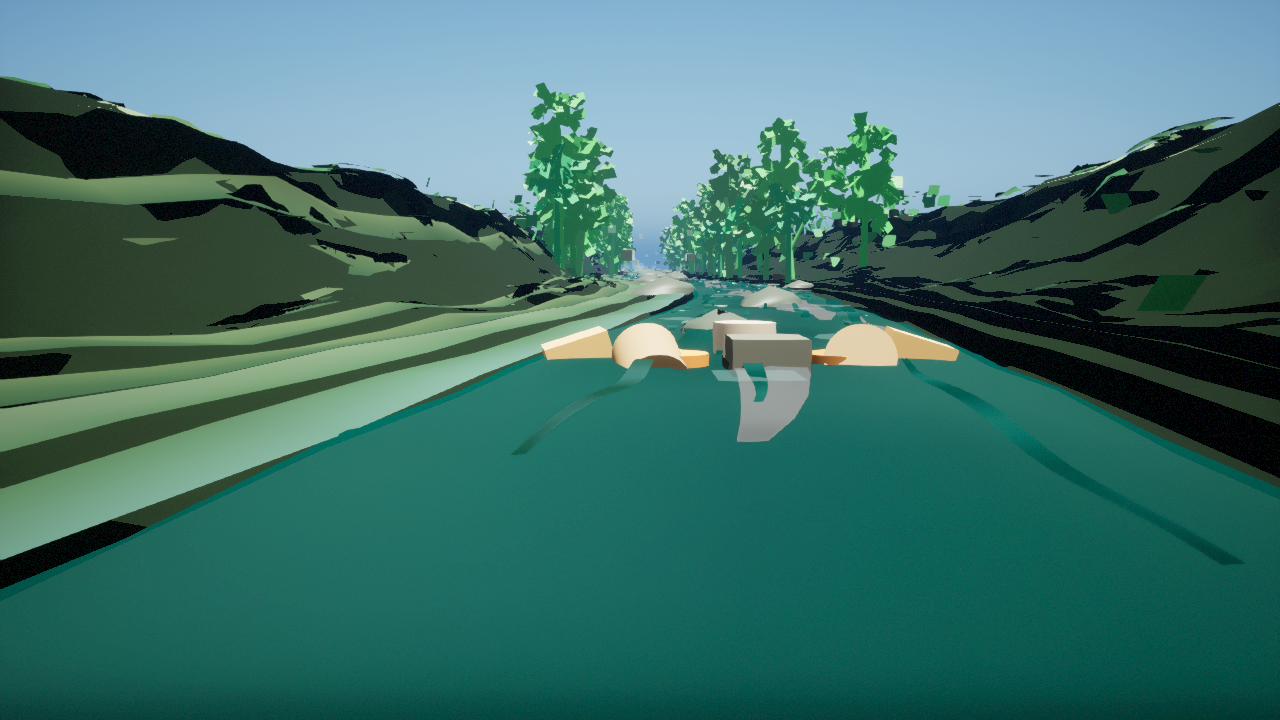
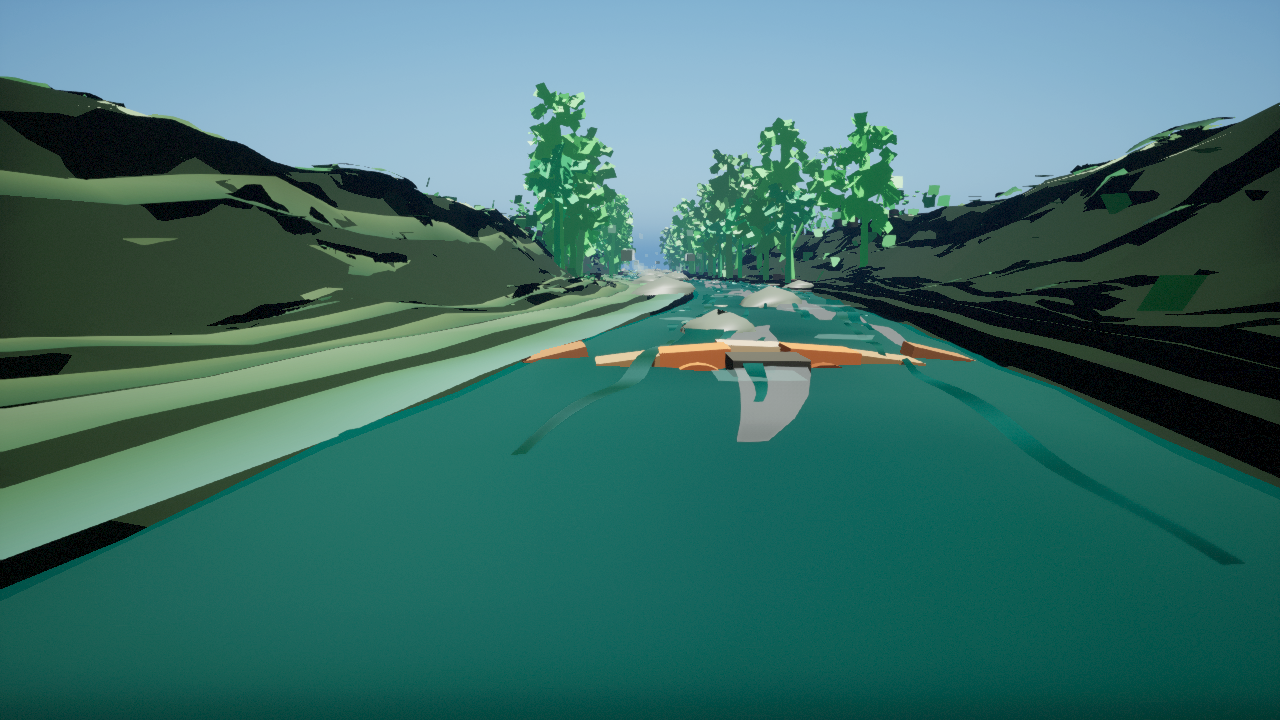
Refine raft foreground preview

Changed region(s): [[0.4062, 0.4278, 0.75, 0.5194]]

diff --git a/unreal/Plugins/RaftSim/Source/RaftSimEditor/Private/RaftSimEditorModule.cpp b/unreal/Plugins/RaftSim/Source/RaftSimEditor/Private/RaftSimEditorModule.cpp
@@ -288,7 +288,7 @@ TArray<FRaftSimEnvironmentPreviewSpec> GetEnvironmentPreviewSpecs()
     SouthFork.ElevationSample =
         TEXT("physics/data/real_world/south_fork_american_chili_bar/terrain/production_import_pilot/3dep_tiles");
     SouthFork.SourceDrapeDescription =
-        TEXT("stitched South Fork production-import pilot source drape generated from four official USDA/APFO NAIP 2048px tiles, plus stitched USGS 3DEP pilot DEM relief and a review-gated 2017px heightfield candidate sampled into bank and valley preview geometry; pilot source water/vegetation masks are sampled into terrain color, source-aware bank breakup patches, first-party terrain material layer facets, first-party Landscape/Nanite material scaffold microfacets/strata/slope occlusion, source-aware boulder wetness/abrasion/moss facets, biome-specific deadfall/log/grass/root ecology props, first-party biome foliage silhouette cards, dense layered riparian canopy/understory proxy clusters, first-party instanced procedural foliage-equivalent canopy/trunk/understory scaffold, lit water variation, flow-band depth texture ribbons, flow-aware surface chop/turbidity patches, first-party water shader depth/reflection/refraction scaffold, deterministic wet-rock, talus, foliage, understory, mask-aware ground-cover cards, guide-seat raft/oar foreground proxies, and river-specific atmospheric backdrop cards; all pilot derivatives remain review-gated until metadata review, mosaic/clip, hydrologic conditioning, channel burning, masks, and guide/geospatial approval pass; rocks, foliage, water, foam, raft, and lighting still include first-party procedural proxy layers");
+        TEXT("stitched South Fork production-import pilot source drape generated from four official USDA/APFO NAIP 2048px tiles, plus stitched USGS 3DEP pilot DEM relief and a review-gated 2017px heightfield candidate sampled into bank and valley preview geometry; pilot source water/vegetation masks are sampled into terrain color, source-aware bank breakup patches, first-party terrain material layer facets, first-party Landscape/Nanite material scaffold microfacets/strata/slope occlusion, source-aware boulder wetness/abrasion/moss facets, biome-specific deadfall/log/grass/root ecology props, first-party biome foliage silhouette cards, dense layered riparian canopy/understory proxy clusters, first-party instanced procedural foliage-equivalent canopy/trunk/understory scaffold, lit water variation, flow-band depth texture ribbons, flow-aware surface chop/turbidity patches, first-party water shader depth/reflection/refraction scaffold, deterministic wet-rock, talus, foliage, understory, mask-aware ground-cover cards, refined guide-seat raft/oar foreground proxies, and river-specific atmospheric backdrop cards; all pilot derivatives remain review-gated until metadata review, mosaic/clip, hydrologic conditioning, channel burning, masks, and guide/geospatial approval pass; rocks, foliage, water, foam, raft, and lighting still include first-party procedural proxy layers");
     SouthFork.FlowBandId = TEXT("median_runnable");
     SouthFork.FlowBandDisplayName = TEXT("Median Runnable / Summer Commercial");
     SouthFork.FlowBandSource = TEXT("physics/data/real_world/south_fork_american_chili_bar/flow_presets.json");
@@ -328,7 +328,7 @@ TArray<FRaftSimEnvironmentPreviewSpec> GetEnvironmentPreviewSpecs()
     Colorado.ElevationSample =
         TEXT("physics/data/real_world/colorado_river_grand_canyon_rowing/terrain/production_import_pilot/3dep_tiles");
     Colorado.SourceDrapeDescription =
-        TEXT("stitched Colorado/Lees Ferry production-import pilot source drape generated from four official USDA/APFO NAIP 2048px tiles, plus stitched USGS 3DEP pilot DEM relief and a review-gated 2017px heightfield candidate sampled into canyon bank preview geometry; pilot source water/vegetation masks are sampled into terrain color, source-aware bank breakup patches, first-party terrain material layer facets, first-party Landscape/Nanite material scaffold microfacets/strata/slope occlusion, source-aware boulder wetness/abrasion/sediment facets, biome-specific sparse deadfall/grass/root ecology props, first-party sparse desert scrub silhouettes, sparse desert riparian thicket proxy clusters, first-party instanced procedural desert-thicket/trunk scaffold, lit water variation, flow-band depth texture ribbons, flow-aware surface chop/turbidity patches, first-party water shader depth/reflection/refraction scaffold, deterministic wet-rock, talus, sparse scrub, boulder placement, mask-aware canyon ground-cover cards, guide-seat raft/oar foreground proxies, and river-specific atmospheric backdrop cards; all pilot derivatives remain review-gated until metadata review, mosaic/clip, river-mile stationing, hydrologic conditioning, release-aware masks, and guide/oarsman approval pass; rocks, foliage, water, foam, raft, and lighting still include first-party procedural proxy layers");
+        TEXT("stitched Colorado/Lees Ferry production-import pilot source drape generated from four official USDA/APFO NAIP 2048px tiles, plus stitched USGS 3DEP pilot DEM relief and a review-gated 2017px heightfield candidate sampled into canyon bank preview geometry; pilot source water/vegetation masks are sampled into terrain color, source-aware bank breakup patches, first-party terrain material layer facets, first-party Landscape/Nanite material scaffold microfacets/strata/slope occlusion, source-aware boulder wetness/abrasion/sediment facets, biome-specific sparse deadfall/grass/root ecology props, first-party sparse desert scrub silhouettes, sparse desert riparian thicket proxy clusters, first-party instanced procedural desert-thicket/trunk scaffold, lit water variation, flow-band depth texture ribbons, flow-aware surface chop/turbidity patches, first-party water shader depth/reflection/refraction scaffold, deterministic wet-rock, talus, sparse scrub, boulder placement, mask-aware canyon ground-cover cards, refined guide-seat raft/oar foreground proxies, and river-specific atmospheric backdrop cards; all pilot derivatives remain review-gated until metadata review, mosaic/clip, river-mile stationing, hydrologic conditioning, release-aware masks, and guide/oarsman approval pass; rocks, foliage, water, foam, raft, and lighting still include first-party procedural proxy layers");
     Colorado.FlowBandId = TEXT("moderate_release_planning");
     Colorado.FlowBandDisplayName = TEXT("Moderate Release Planning");
     Colorado.FlowBandSource = TEXT("physics/data/real_world/colorado_river_grand_canyon_rowing/flow_presets.json");
@@ -374,7 +374,7 @@ TArray<FRaftSimEnvironmentPreviewSpec> GetEnvironmentPreviewSpecs()
     Pacuare.ElevationSample =
         TEXT("physics/data/real_world/pacuare_river_costa_rica/terrain/copernicus_dem_glo30_N09_W084.tif; physics/data/real_world/pacuare_river_costa_rica/terrain/copernicus_dem_glo30_N10_W084.tif");
     Pacuare.SourceDrapeDescription =
-        TEXT("review-gated Pacuare production-import derivative placeholders generated from the selected NASA GIBS MODIS/Terra true-color seed and Copernicus DEM GLO-30 relief, normalized into a 4096px source drape, 2048px DEM relief, 2017px heightfield candidate, and 2048px water/vegetation masks; these remain coarse/cloudy proxy inputs until higher-resolution cloud-screened imagery, local hydrology/hydrography, protected-area review, and guide/outfitter validation are attached; first-party procedural rainforest leaf-litter, wet-rock, talus, mist, source-aware bank breakup patches, first-party terrain material layer facets, first-party Landscape/Nanite material scaffold microfacets/strata/slope occlusion, source-aware boulder wetness/abrasion/moss facets, biome-specific deadfall/log/grass/root ecology props, rainforest canopy/vine silhouette cards, dense layered rainforest canopy/understory proxy clusters, first-party instanced procedural rainforest canopy/trunk/understory scaffold, waterfall curtain/plunge-mist proxy layers, lit water variation, flow-band depth texture ribbons, flow-aware surface chop/turbidity patches, first-party water shader depth/reflection/refraction scaffold, dense mask-aware ground-cover/canopy cards, guide-seat raft/oar foreground proxies, and humid atmospheric backdrop cards remain rights-safe proxy dressing; rocks, foliage, water, foam, raft, and lighting still include first-party procedural proxy layers");
+        TEXT("review-gated Pacuare production-import derivative placeholders generated from the selected NASA GIBS MODIS/Terra true-color seed and Copernicus DEM GLO-30 relief, normalized into a 4096px source drape, 2048px DEM relief, 2017px heightfield candidate, and 2048px water/vegetation masks; these remain coarse/cloudy proxy inputs until higher-resolution cloud-screened imagery, local hydrology/hydrography, protected-area review, and guide/outfitter validation are attached; first-party procedural rainforest leaf-litter, wet-rock, talus, mist, source-aware bank breakup patches, first-party terrain material layer facets, first-party Landscape/Nanite material scaffold microfacets/strata/slope occlusion, source-aware boulder wetness/abrasion/moss facets, biome-specific deadfall/log/grass/root ecology props, rainforest canopy/vine silhouette cards, dense layered rainforest canopy/understory proxy clusters, first-party instanced procedural rainforest canopy/trunk/understory scaffold, waterfall curtain/plunge-mist proxy layers, lit water variation, flow-band depth texture ribbons, flow-aware surface chop/turbidity patches, first-party water shader depth/reflection/refraction scaffold, dense mask-aware ground-cover/canopy cards, refined guide-seat raft/oar foreground proxies, and humid atmospheric backdrop cards remain rights-safe proxy dressing; rocks, foliage, water, foam, raft, and lighting still include first-party procedural proxy layers");
     Pacuare.FlowBandId = TEXT("rainfed_runnable_planning");
     Pacuare.FlowBandDisplayName = TEXT("Rain-Fed Runnable Planning");
     Pacuare.FlowBandSource = TEXT("physics/data/real_world/pacuare_river_costa_rica/flow_presets.json");
@@ -4306,77 +4306,90 @@ void AddPreviewRaftForeground(UWorld* World, const FRaftSimEnvironmentPreviewSpe
 
     const float BaseX = -4100.0f;
     const float CenterY = GetPreviewRiverCenterY(Spec, BaseX);
-    const float Z = -10.0f;
-    const FLinearColor TubeColor = FMath::Lerp(Spec.RaftColor, FLinearColor(0.95f, 0.60f, 0.18f), 0.24f);
-    const FLinearColor TubeShadowColor = ScalePreviewColor(TubeColor, 0.62f);
+    const float Z = -18.0f;
+    const FLinearColor TubeColor = FMath::Lerp(ScalePreviewColor(Spec.RaftColor, 0.42f), FLinearColor(0.34f, 0.095f, 0.035f), 0.60f);
+    const FLinearColor TubeShadowColor = ScalePreviewColor(TubeColor, 0.44f);
+    const FLinearColor TubeHighlightColor = FMath::Lerp(TubeColor, FLinearColor(0.70f, 0.25f, 0.09f), 0.14f);
     const FLinearColor FrameColor = Spec.bDesertCanyon ? FLinearColor(0.12f, 0.095f, 0.065f) : FLinearColor(0.065f, 0.075f, 0.058f);
-    const FLinearColor OarShaftColor = Spec.bDesertCanyon ? FLinearColor(0.44f, 0.31f, 0.16f) : FLinearColor(0.50f, 0.33f, 0.17f);
-    const FLinearColor OarBladeColor = Spec.bDesertCanyon ? FLinearColor(0.76f, 0.68f, 0.47f) : FLinearColor(0.86f, 0.52f, 0.22f);
-    const FLinearColor BowLineColor = FMath::Lerp(FLinearColor(0.78f, 0.72f, 0.58f), TubeColor, 0.18f);
+    const FLinearColor OarShaftColor = Spec.bDesertCanyon ? FLinearColor(0.24f, 0.15f, 0.075f) : FLinearColor(0.27f, 0.16f, 0.075f);
+    const FLinearColor OarBladeColor = Spec.bDesertCanyon ? FLinearColor(0.22f, 0.15f, 0.075f) : FLinearColor(0.24f, 0.10f, 0.045f);
+    const FLinearColor BowLineColor = FMath::Lerp(FLinearColor(0.40f, 0.34f, 0.22f), TubeColor, 0.25f);
 
     AddRaftProxyPart(
         CylinderMesh,
         FString::Printf(TEXT("RaftSim_ForegroundRaft_LeftTube_%s"), *Spec.RiverId),
-        FVector(BaseX + 40.0f, CenterY - 118.0f, Z),
-        FRotator(0.0f, 90.0f, 0.0f),
-        FVector(0.20f, 0.20f, 1.62f),
+        FVector(BaseX + 12.0f, CenterY - 88.0f, Z),
+        FRotator(90.0f, 0.0f, 0.0f),
+        FVector(0.145f, 0.145f, 1.20f),
         TubeColor);
     AddRaftProxyPart(
         CylinderMesh,
         FString::Printf(TEXT("RaftSim_ForegroundRaft_RightTube_%s"), *Spec.RiverId),
-        FVector(BaseX + 40.0f, CenterY + 118.0f, Z),
-        FRotator(0.0f, 90.0f, 0.0f),
-        FVector(0.20f, 0.20f, 1.62f),
+        FVector(BaseX + 12.0f, CenterY + 88.0f, Z),
+        FRotator(90.0f, 0.0f, 0.0f),
+        FVector(0.145f, 0.145f, 1.20f),
         TubeShadowColor);
     AddRaftProxyPart(
-        CylinderMesh,
+        CubeMesh,
         FString::Printf(TEXT("RaftSim_ForegroundRaft_Bow_%s"), *Spec.RiverId),
-        FVector(BaseX + 235.0f, CenterY, Z + 2.0f),
-        FRotator(90.0f, 0.0f, 0.0f),
-        FVector(0.18f, 0.18f, 1.38f),
+        FVector(BaseX + 165.0f, CenterY, Z - 1.0f),
+        FRotator(0.0f, 0.0f, 0.0f),
+        FVector(0.070f, 0.78f, 0.025f),
         TubeColor);
     AddRaftProxyPart(
         CubeMesh,
         FString::Printf(TEXT("RaftSim_ForegroundRaft_Floor_%s"), *Spec.RiverId),
-        FVector(BaseX - 18.0f, CenterY, -12.0f),
+        FVector(BaseX - 22.0f, CenterY, -118.0f),
         FRotator::ZeroRotator,
-        FVector(0.66f, 0.36f, 0.022f),
-        FrameColor);
+        FVector(0.055f, 0.030f, 0.003f),
+        ScalePreviewColor(FrameColor, 0.22f));
     AddRaftProxyPart(
         CubeMesh,
         FString::Printf(TEXT("RaftSim_ForegroundRaft_FrameBar_%s"), *Spec.RiverId),
-        FVector(BaseX - 62.0f, CenterY, 22.0f),
+        FVector(BaseX - 62.0f, CenterY, -4.0f),
         FRotator::ZeroRotator,
-        FVector(0.045f, 0.84f, 0.018f),
-        FLinearColor(0.18f, 0.18f, 0.15f));
+        FVector(0.026f, 0.44f, 0.010f),
+        FLinearColor(0.045f, 0.045f, 0.038f));
 
-    const float OarLengthScale = Spec.bDesertCanyon ? 2.05f : 1.78f;
-    const float OarBladeOffset = Spec.bDesertCanyon ? 300.0f : 260.0f;
+    for (int32 SeamIndex = 0; SeamIndex < 2; ++SeamIndex)
+    {
+        const float Side = (SeamIndex == 0) ? -1.0f : 1.0f;
+        AddRaftProxyPart(
+            CubeMesh,
+            FString::Printf(TEXT("RaftSim_ForegroundRaft_TubeSeam_%d_%s"), SeamIndex, *Spec.RiverId),
+            FVector(BaseX + 38.0f, CenterY + Side * 88.0f, Z + 16.0f),
+            FRotator(0.0f, 0.0f, Side * 4.0f),
+            FVector(0.36f, 0.010f, 0.006f),
+            TubeHighlightColor);
+    }
+
+    const float OarLengthScale = Spec.bDesertCanyon ? 0.76f : 0.64f;
+    const float OarBladeOffset = Spec.bDesertCanyon ? 330.0f : 295.0f;
     for (int32 OarIndex = 0; OarIndex < 2; ++OarIndex)
     {
         const float Side = (OarIndex == 0) ? -1.0f : 1.0f;
         AddRaftProxyPart(
-            CylinderMesh,
+            CubeMesh,
             FString::Printf(TEXT("RaftSim_ForegroundRaft_OarShaft_%d_%s"), OarIndex, *Spec.RiverId),
-            FVector(BaseX + 28.0f, CenterY + Side * 154.0f, 18.0f + 2.0f * static_cast<float>(OarIndex)),
-            FRotator(Side > 0.0f ? 2.5f : -2.5f, 94.0f + Side * 15.0f, Side * 68.0f),
-            FVector(0.023f, 0.023f, OarLengthScale),
+            FVector(BaseX + 38.0f, CenterY + Side * 178.0f, -14.0f + 1.0f * static_cast<float>(OarIndex)),
+            FRotator(0.0f, Side * 4.0f, Side > 0.0f ? 7.0f : -7.0f),
+            FVector(0.018f, OarLengthScale, 0.006f),
             OarShaftColor);
         AddRaftProxyPart(
             CubeMesh,
             FString::Printf(TEXT("RaftSim_ForegroundRaft_OarBlade_%d_%s"), OarIndex, *Spec.RiverId),
-            FVector(BaseX + 138.0f, CenterY + Side * OarBladeOffset, 6.0f),
-            FRotator(0.0f, 10.0f * Side, Side > 0.0f ? 17.0f : -17.0f),
-            FVector(0.12f, 0.30f, 0.014f),
+            FVector(BaseX + 140.0f, CenterY + Side * OarBladeOffset, -16.0f),
+            FRotator(0.0f, 8.0f * Side, Side > 0.0f ? 13.0f : -13.0f),
+            FVector(0.050f, 0.13f, 0.006f),
             OarBladeColor);
     }
 
     AddRaftProxyPart(
-        CylinderMesh,
+        CubeMesh,
         FString::Printf(TEXT("RaftSim_ForegroundRaft_BowLine_%s"), *Spec.RiverId),
-        FVector(BaseX + 172.0f, CenterY, 26.0f),
-        FRotator(0.0f, 90.0f, 0.0f),
-        FVector(0.012f, 0.012f, 0.82f),
+        FVector(BaseX + 118.0f, CenterY, -3.0f),
+        FRotator(0.0f, 0.0f, 2.0f),
+        FVector(0.30f, 0.008f, 0.006f),
         BowLineColor);
 }
 

diff --git a/docs/photoreal-river-environment-production-plan.md b/docs/photoreal-river-environment-production-plan.md
@@ -103,7 +103,7 @@ Initial source slice:
 - Source-aware boulders now receive first-party wet sheen, abrasion, and moss/sediment surface facets driven by the same water and vegetation masks used for placement. This improves rock readability in the current captures, but it is still procedural proxy art and does not replace production photogrammetry, Nanite rock sets, material instances, or contact-geometry review.
 - Mid-channel source-aware boulders now bias toward darker wet albedo, muted top highlights, and first-party crevice-shadow facets. This reduces chalky river-rock reads while keeping hazard placement, contact foam, and swimmer/rescue readability intact; the pale foreground raft/oar proxy remains a separate art replacement gate.
 - The Unreal preview generator now samples each active aerial/source drape directly into higher-density terrain vertex colors and softens the separate drape overlay, reducing hard rectangular patchwork in the review captures while keeping the inputs review-gated. The overlay is now further muted in the generated maps, and deterministic boulder-contact foam laces tie source-aware rocks into the current without pretending to be production whitewater simulation.
-- The river ribbon mesh keeps `M_RaftSim_VertexColorWaterPreview` active, a first-party procedural lit vertex-color water material with muted shallow/deep tinting and subtle along-flow variation. Direct reuse of installed Unreal Water/WaterAdvanced plugin materials was evaluated and rejected for this generated ProceduralMeshComponent ribbon after producing near-black downstream captures; `water_material_candidate_review.json` records that decision and keeps future WaterBody/WaterMesh integration as a separate validation task. The generated preview maps now include low-footprint first-party guide-seat raft and oar foreground proxies for player-view context, while river-eye captures hide those foreground actors so terrain, water, and corridor quality can still be reviewed cleanly. Preview cameras use fixed manual exposure, and capture automation performs a warm-up render before pixel readback so water review is not polluted by exposure shifts or first-frame material warm-up artifacts. This improves the current preview screenshots but does not replace the future production water shader, reflections, solver-driven surface detail, spray, mist, foam, or approved raft/oar foreground art.
+- The river ribbon mesh keeps `M_RaftSim_VertexColorWaterPreview` active, a first-party procedural lit vertex-color water material with muted shallow/deep tinting and subtle along-flow variation. Direct reuse of installed Unreal Water/WaterAdvanced plugin materials was evaluated and rejected for this generated ProceduralMeshComponent ribbon after producing near-black downstream captures; `water_material_candidate_review.json` records that decision and keeps future WaterBody/WaterMesh integration as a separate validation task. The generated preview maps now include lower-occlusion first-party guide-seat raft and oar foreground proxies with horizontal tube orientation, a flat horizontal bow strip, darker rubber/oar materials, seam highlights, flat outboard oar shafts, smaller blades, and a demoted floor proxy for player-view context, while river-eye captures hide those foreground actors so terrain, water, and corridor quality can still be reviewed cleanly. Preview cameras use fixed manual exposure, and capture automation performs a warm-up render before pixel readback so water review is not polluted by exposure shifts or first-frame material warm-up artifacts. This improves the current preview screenshots but does not replace the future production water shader, reflections, solver-driven surface detail, spray, mist, foam, or approved raft/oar foreground art.
 - The preview generator now adds deterministic mask-aware ground-cover and canopy-card actors along the banks for all three rivers. These source-mask-biased first-party cards add riparian, canyon scrub, and rainforest texture without importing third-party art, but they remain proxy dressing until biome-specific foliage assets, instancing budgets, and guide-reviewed sightline cutouts are complete.
 - The UE 5.8 photoreal preview automation scopes `Editor.CheckForWorldGCLeaksAreFatal=0` only around generated-map/capture batches. This prevents commandlet-style startup `Untitled` world cleanup diagnostics from crashing the run while still logging the diagnostics and restoring the editor CVar afterward.
 - `river_flow_visual_bands.json` now records the preview-only flow-band visual contract for South Fork, Colorado, and Pacuare. The active generated previews render the South Fork `median_runnable`, Colorado `moderate_release_planning`, and Pacuare `rainfed_runnable_planning` bands by adjusting river width, water level, foam scale, wet-bank width, and current-cue density; regenerated capture manifests must record the selected band and visual parameters. These are source-backed visual defaults, not solver authority or complete seasonal variant captures.

diff --git a/TODO.md b/TODO.md
@@ -950,6 +950,7 @@ This milestone turns the three runnable river targets into complete, reviewable,
 - [x] Add subtle deterministic current-streak proxy ribbons to the generated Unreal river surfaces for South Fork, Colorado, and Pacuare, with refreshed guide-seat and river-eye captures. This reduces the single-flat-ribbon read slightly while keeping production water materials, reflections, spray, mist, foam, and solver-driven surface detail open.
 - [x] Add procedural vertex-color water gradients to the generated river ribbons for all three previews, backed by `M_RaftSim_VertexColorWaterPreview`, with cross-river shallow/deep tinting, subtle along-flow variation, fixed manual capture exposure, warm-up captures before pixel readback, and crude foreground raft proxies hidden/disabled for cleaner guide-seat water review until production raft art is ready. This improves the current screenshot read without replacing the future production water shader, reflections, solver-driven surface detail, foam, spray, or mist.
 - [x] Add first-party guide-seat raft and oar foreground proxies to the generated Unreal preview maps, with guide-seat captures showing a low-footprint player-view foreground and river-eye captures hiding the proxies for clean environment review. This adds reviewable gameplay context without closing the production-approved raft/oar art gate.
+- [x] Refine the guide-seat raft/oar foreground proxy: tubes now use horizontal orientation, the bow uses a flat horizontal strip, oar shafts are flat/outboard, colors are darker and rubber-like, seam highlights remain visible, oar blades are smaller/darker, and the floor proxy is demoted so guide-seat captures preserve more downstream water while approved production raft/oar art remains open.
 - [x] Add deterministic vertex-color terrain variation and wet-bank/shoreline dressing to the generated Unreal preview maps, backed by `M_RaftSim_VertexColorPreview`, with refreshed guide-seat and river-eye captures for all three rivers. This improves source-aware bank readability, but the captures remain proxy evidence until production terrain materials, water shaders, wet rocks, and biome assets are imported or generated.
 - [x] Add a first-party procedural source-detail pass to the generated Unreal previews: terrain-conforming canyon strata, rainforest/foothill leaf-litter bands, wet-rock accents, and deterministic talus/pebble bars are generated from code and engine primitives for all three rivers. This is rights-safe proxy dressing, not production photogrammetry or licensed environment art.
 - [x] Add first-party terrain material layer facets and slope-shadow patches to the generated Unreal preview maps, using source masks and heightfield/DEM sampling to break up flat banks, canyon walls, and rainforest gorge surfaces while keeping production Landscape/Nanite material replacement open.
